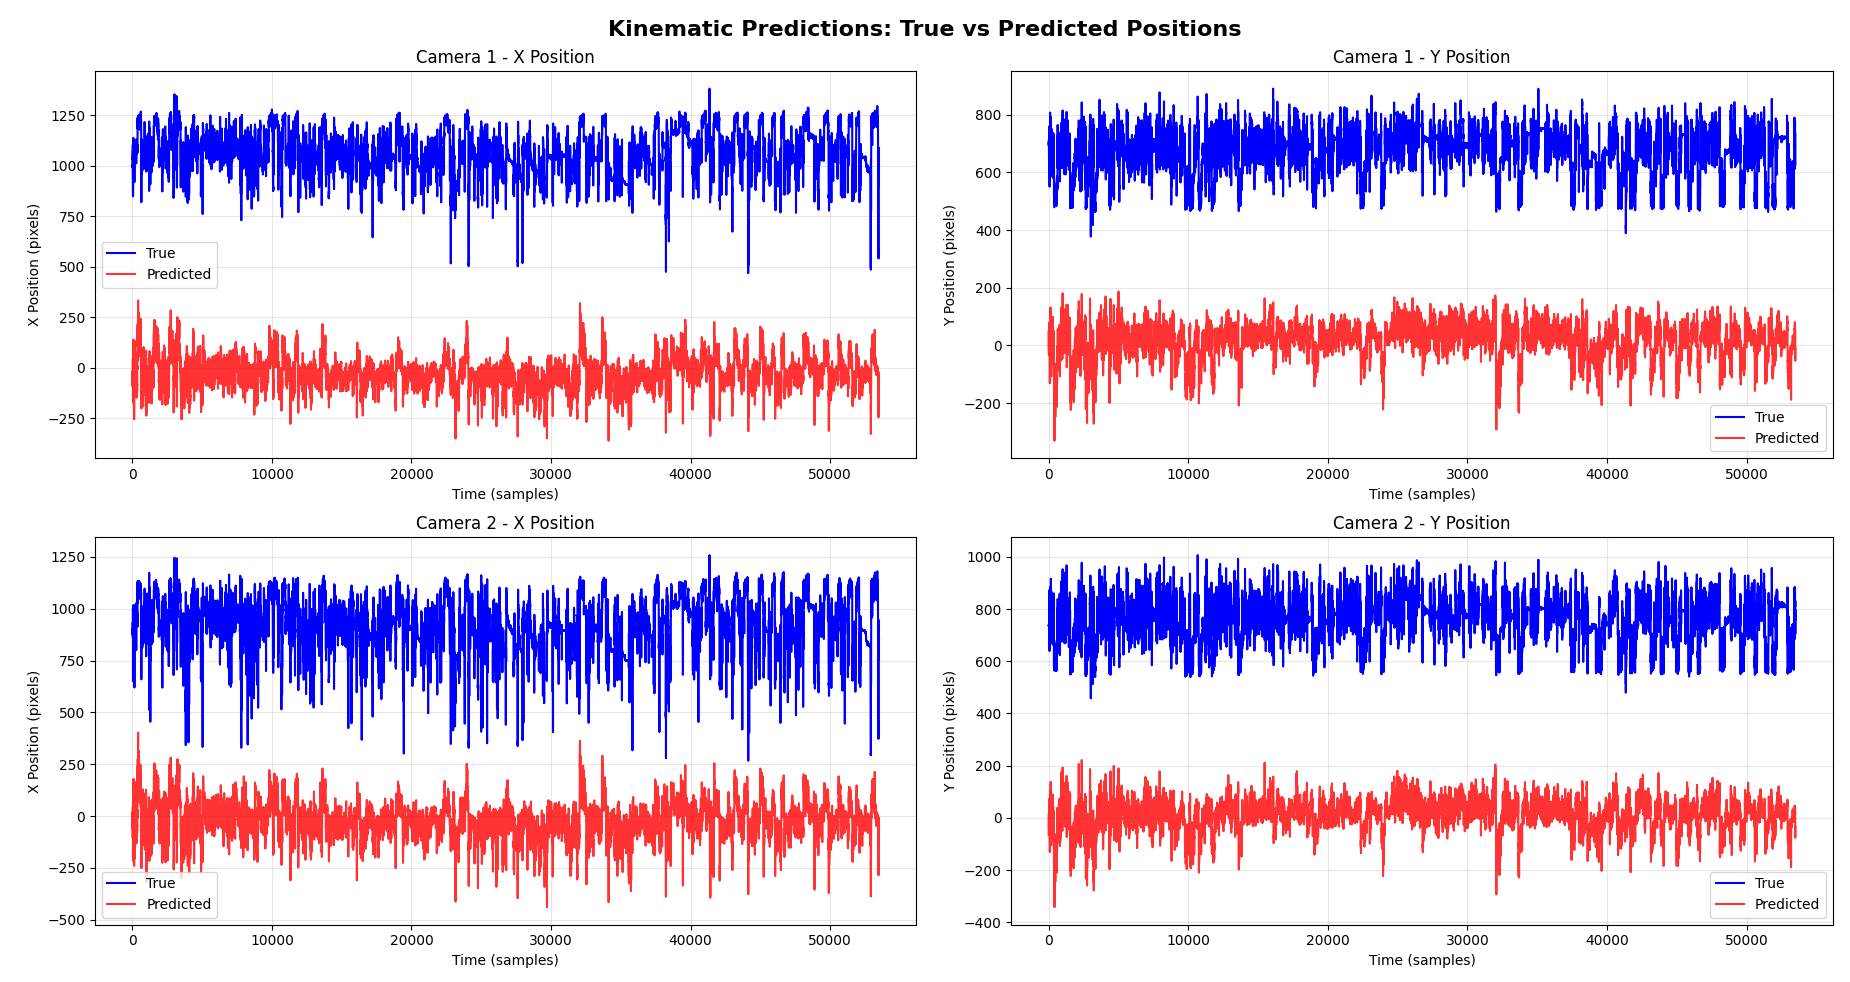
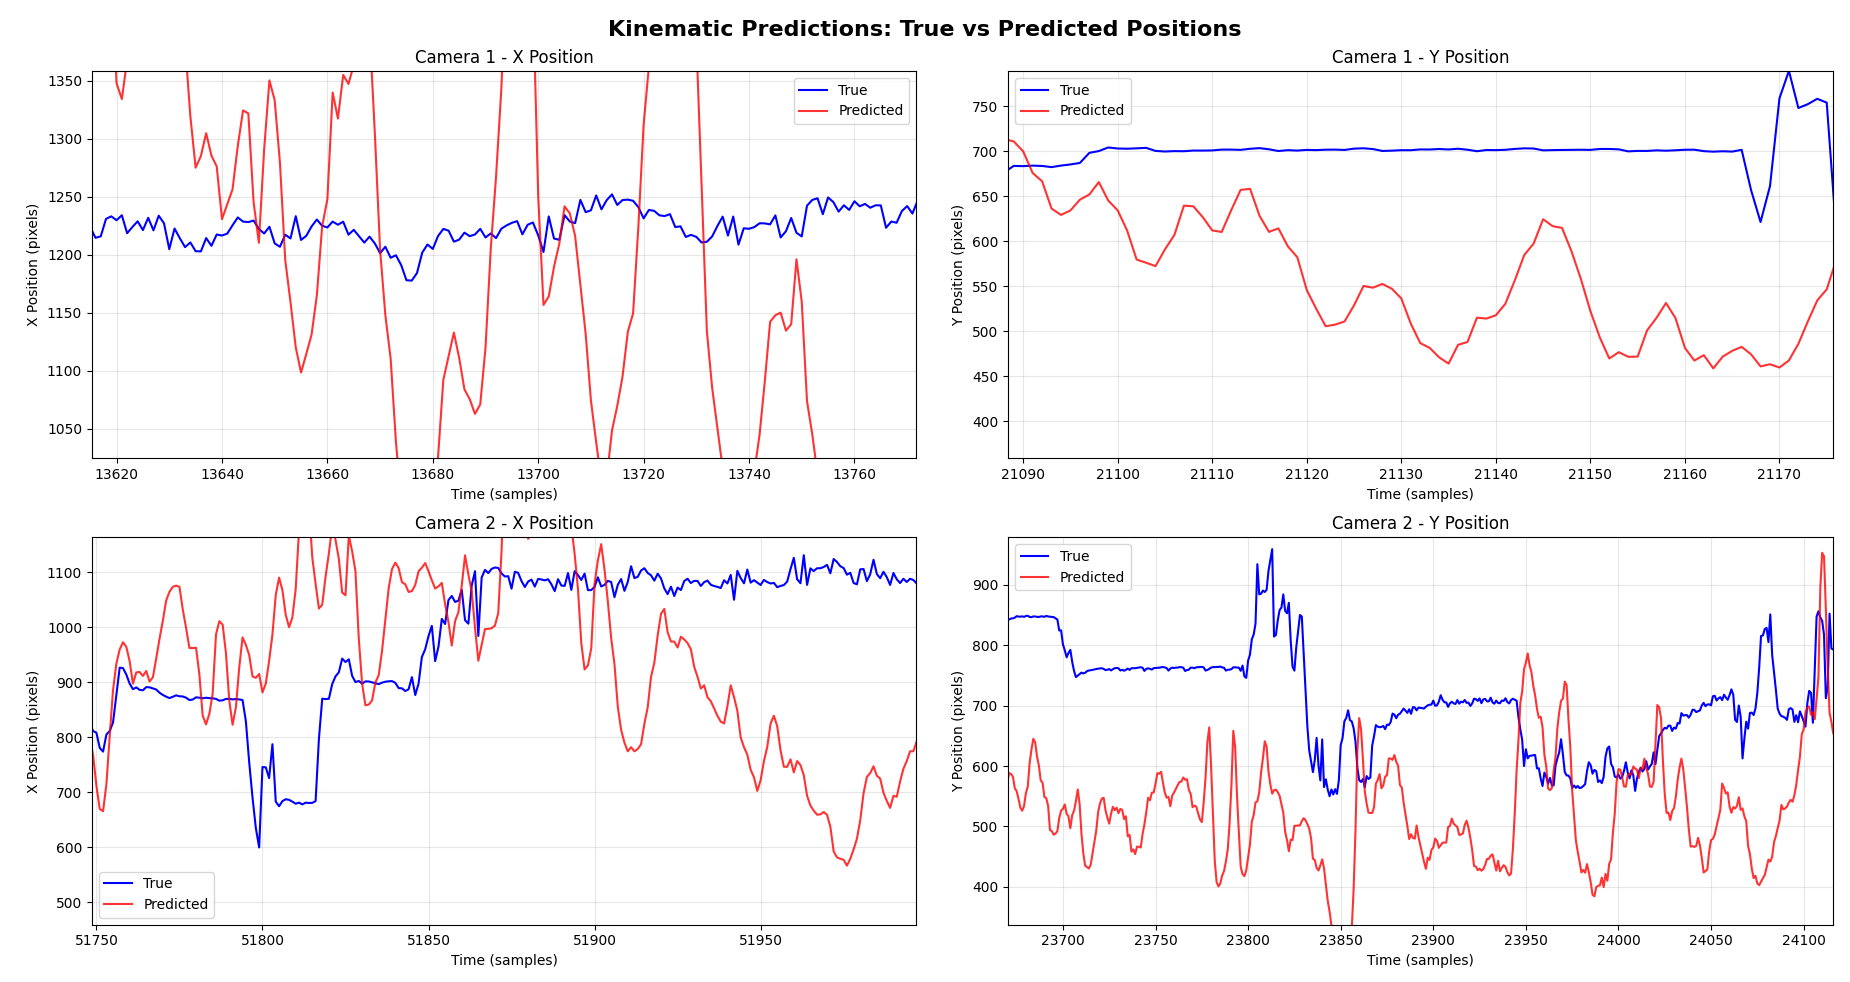
Redid plots with tseries axes

diff --git a/plot.py b/plot.py
@@ -5,7 +5,7 @@ from matplotlib.patches import Rectangle
 import seaborn as sns
 from typing import List, Dict, Tuple
 from mouse import MouseDay
-import sys
+import interp
 
 # for now, only working with the first 4464 frames for Mouse25 20240425
 # need to filter the cascade spike data before plotting
@@ -263,10 +263,6 @@ def plot_tseries_tstamps(mouse_day, event_key: str, figsize: Tuple[int, int] = (
     axes[1, 1].plot(mouse_day.kin_tstamp_dict[event_key])
     return fig
 
-from typing import Tuple
-import matplotlib.pyplot as plt
-import numpy as np
-
 def plot_r2_scores(behaviors: dict[int, str], beh_models_scores: list[list[float]], general_model_score: list[float], figsize: Tuple[int, int]=(16, 10)):
     fig, ax = plt.subplots(nrows=1, ncols=1, figsize=figsize)
     
@@ -307,46 +303,47 @@ def plot_r2_scores(behaviors: dict[int, str], beh_models_scores: list[list[float
     plt.tight_layout()
     plt.show()
 
-def plot_kin_predictions(true_positions: np.ndarray, pred_positions: np.ndarray, figsize: Tuple[int, int]=(16, 10)):
+def plot_kin_predictions(mouse_day: MouseDay, figsize: Tuple[int, int]=(16, 10)):
     """
     True and pred positions are shape (nsamples, 4)
     Each column holds the following data:
     cam1_x cam1_y cam2_x cam2_y
     """
+    avg_w, scores, true_positions, pred_positions = interp.general_ridge(mouse_day)
     fig, axes = plt.subplots(nrows=2, ncols=2, figsize=figsize)
-    
+    trimmed_tstamps = mouse_day.get_trimmed_cal_tstamps()
     # Camera 1 X positions
-    axes[0, 0].plot(true_positions[:, 0], 'b-', label="True", linewidth=1.5)
-    axes[0, 0].plot(pred_positions[:, 0], 'r-', label="Predicted", linewidth=1.5, alpha=0.8)
+    axes[0, 0].plot(trimmed_tstamps, true_positions[:, 0], 'b-', label="True", linewidth=1.5)
+    axes[0, 0].plot(trimmed_tstamps, pred_positions[:, 0], 'r-', label="Predicted", linewidth=1.5, alpha=0.5)
     axes[0, 0].set_title("Camera 1 - X Position")
-    axes[0, 0].set_xlabel("Time (samples)")
+    axes[0, 0].set_xlabel("Time (since Unix Epoch - ns)")
     axes[0, 0].set_ylabel("X Position (pixels)")
     axes[0, 0].legend()
     axes[0, 0].grid(True, alpha=0.3)
     
     # Camera 1 Y positions
-    axes[0, 1].plot(true_positions[:, 1], 'b-', label="True", linewidth=1.5)
-    axes[0, 1].plot(pred_positions[:, 1], 'r-', label="Predicted", linewidth=1.5, alpha=0.8)
+    axes[0, 1].plot(trimmed_tstamps, true_positions[:, 1], 'b-', label="True", linewidth=1.5)
+    axes[0, 1].plot(trimmed_tstamps, pred_positions[:, 1], 'r-', label="Predicted", linewidth=1.5, alpha=0.5)
     axes[0, 1].set_title("Camera 1 - Y Position")
-    axes[0, 1].set_xlabel("Time (samples)")
+    axes[0, 1].set_xlabel("Time (since Unix Epoch - ns)")
     axes[0, 1].set_ylabel("Y Position (pixels)")
     axes[0, 1].legend()
     axes[0, 1].grid(True, alpha=0.3)
     
     # Camera 2 X positions
-    axes[1, 0].plot(true_positions[:, 2], 'b-', label="True", linewidth=1.5)
-    axes[1, 0].plot(pred_positions[:, 2], 'r-', label="Predicted", linewidth=1.5, alpha=0.8)
+    axes[1, 0].plot(trimmed_tstamps, true_positions[:, 2], 'b-', label="True", linewidth=1.5)
+    axes[1, 0].plot(trimmed_tstamps, pred_positions[:, 2], 'r-', label="Predicted", linewidth=1.5, alpha=0.5)
     axes[1, 0].set_title("Camera 2 - X Position")
-    axes[1, 0].set_xlabel("Time (samples)")
+    axes[1, 0].set_xlabel("Time (since Unix Epoch - ns)")
     axes[1, 0].set_ylabel("X Position (pixels)")
     axes[1, 0].legend()
     axes[1, 0].grid(True, alpha=0.3)
     
     # Camera 2 Y positions
-    axes[1, 1].plot(true_positions[:, 3], 'b-', label="True", linewidth=1.5)
-    axes[1, 1].plot(pred_positions[:, 3], 'r-', label="Predicted", linewidth=1.5, alpha=0.8)
+    axes[1, 1].plot(trimmed_tstamps, true_positions[:, 3], 'b-', label="True", linewidth=1.5)
+    axes[1, 1].plot(trimmed_tstamps, pred_positions[:, 3], 'r-', label="Predicted", linewidth=1.5, alpha=0.5)
     axes[1, 1].set_title("Camera 2 - Y Position")
-    axes[1, 1].set_xlabel("Time (samples)")
+    axes[1, 1].set_xlabel("Time (since Unix Epoch - ns)")
     axes[1, 1].set_ylabel("Y Position (pixels)")
     axes[1, 1].legend()
     axes[1, 1].grid(True, alpha=0.3)
@@ -356,14 +353,21 @@ def plot_kin_predictions(true_positions: np.ndarray, pred_positions: np.ndarray,
     
     # Adjust layout to prevent overlap
     plt.tight_layout()
-    plt.show()
+    return fig
 
+def plot_kin_predictions_by_beh(mouse_day: MouseDay, figsize: Tule[int, int]=(16, 10)):
+    fig, axes = plt.subplots(nrows=2, nols=2, figsize=figsize)
+    return fig
 
 if __name__ == "__main__":
     mouse_day = MouseDay('mouse25', '20240425')
     event_keys = mouse_day.seg_keys
     event_key = event_keys[0]  # Use first available key
     
+    # Plotting Ridge Regression results
+    fig2 = plot_kin_predictions(mouse_day)
+    plt.show()
+
     # Create comprehensive plot
     # fig1 = plot_mouseday_data(mouse_day, event_key)
     # plt.show()
@@ -372,16 +376,3 @@ if __name__ == "__main__":
     # for key in event_keys:
     #     fig4 = plot_interp_test(mouse_day, key)
     #     plt.show()
-
-    # # t("mouse_day = MouseDay('mouse25', '20240425')")
-    print("event_key = list(mouse_day.kin_event_times.keys())[0]")
-    print("fig = plot_mouseday_data(mouse_day, event_key)")
-    print("plt.show()")
-    # fig3 = plot_tseries_tstamps(mouse_day, event_key)
-    # plt.show()
-    
-    print("Example usage:")
-    print("mouse_day = MouseDay('mouse25', '20240425')")
-    print("event_key = list(mouse_day.kin_event_times.keys())[0]")
-    print("fig = plot_mouseday_data(mouse_day, event_key)")
-    print("plt.show()")

diff --git a/mouse.py b/mouse.py
@@ -70,13 +70,13 @@ class MouseDay:
 
         # Load all the data
         # # Keeping these for debugging purposes as I scale up to all time series
-        self._cal_tseries = io.load_tseries(mouseID, day, "calcium")
-        self._kin_tseries = io.load_tseries(mouseID, day, "cam")
+        # self._cal_tseries = io.load_tseries(mouseID, day, "calcium")
+        # self._kin_tseries = io.load_tseries(mouseID, day, "cam")
 
         self._cal_tstamp_dict = io.load_tstamp_dict(mouseID, day, "calcium")
         self._kin_tstamp_dict = io.load_tstamp_dict(mouseID, day, "cam")
 
-        self._cal_tstamps = io.load_cal_tstamps(mouseID, day)
+        # self._cal_tstamps = io.load_cal_tstamps(mouseID, day)
         self._cal_event_frames = io.load_cal_event_times(mouseID, day)
         self._kin_event_frames = io.load_cam_event_times(mouseID, day)
         self._event_labels = io.load_event_labels(mouseID, day)
@@ -108,8 +108,10 @@ class MouseDay:
     @property
     def cal_tstamps(self) -> np.ndarray:
         """Get the calcium time series data."""
-        return self._cal_tstamps
-
+        full_tstamps = []
+        for seg in self.cal_tstamp_dict:
+            full_tstamps = np.append(full_tstamps, self.cal_tstamp_dict[seg])
+        return full_tstamps
 
     def check_caltime_latency(self):
         """
@@ -173,10 +175,7 @@ class MouseDay:
     
     @property
     def cal_ntimestamps(self) -> int:
-        tstamp_count = 0
-        for seg in self.cal_tstamp_dict:
-            tstamp_count += len(self.cal_tstamp_dict[seg])
-        return tstamp_count
+        return len(self.cal_tstamps)
     
     @property
     def n_samples(self) -> int:
@@ -193,6 +192,9 @@ class MouseDay:
     
     def get_kin_ntimeframes(self, key) -> int:
         return len(self.kin_tstamp_dict[key])
+
+    def get_trimmed_cal_tstamps(self) -> np.ndarray:
+        return self.cal_tstamps[32:-32]
 
     # Not in use, changed the list of boydparts to a static variable
     def get_bodyparts(self, df):

diff --git a/interp.py b/interp.py
@@ -27,7 +27,7 @@ def general_ridge(mouse_day: MouseDay, n_trials: int=10):
         y_train, y_test = y[train_idcs], y[test_idcs]
         
         # Cross-validate to find the best alpha
-        ridge = RidgeCV(alphas=[0.1, 1.0, 10.0, 100.0])
+        ridge = RidgeCV(alphas=[0.1, 1.0, 10.0, 100.0], fit_intercept=False)
 
         # Train the model
         ridge.fit(X_train, y_train)
@@ -44,12 +44,9 @@ def general_ridge(mouse_day: MouseDay, n_trials: int=10):
     avg_w *= (1/score_sum)
     
     # Use average weights to make predictions on the kinematics data
-    print(X.shape)
-    print(avg_w.shape)
     y_pred = X @ avg_w.T
-    myplot.plot_kin_predictions(y, y_pred)
     
-    return avg_w, scores
+    return avg_w, scores, y, y_pred
 
 def ridge_by_beh(mouse_day: MouseDay, n_trials: int=10):
     """
@@ -122,12 +119,18 @@ def dimensions_check(mouse_day: MouseDay):
 
 if __name__ == "__main__":
     test_mouse = MouseDay("mouse25", "20240425")
+    # print("number of caltstamps: ", test_mouse.cal_ntimestamps)
+    # print("number of cal frames: ", test_mouse.cal_nframes)
+    # print("caltstamps (full): ", test_mouse.cal_tstamps)
+    # print("length of that array: ", len(test_mouse.cal_tstamps))
+
     # for label in test_mouse.get_beh_labels():
     #     print(label)
+    
     # latency_check(test_mouse)
     # dimensions_check(test_mouse)
 
-    gen_weights, gen_scores = general_ridge(test_mouse)
+    # gen_weights, gen_scores = general_ridge(test_mouse)
     # print(avg_weights)
     # print(scores)
     # beh_weights, beh_scores = weights_by_beh = ridge_by_beh(test_mouse)
